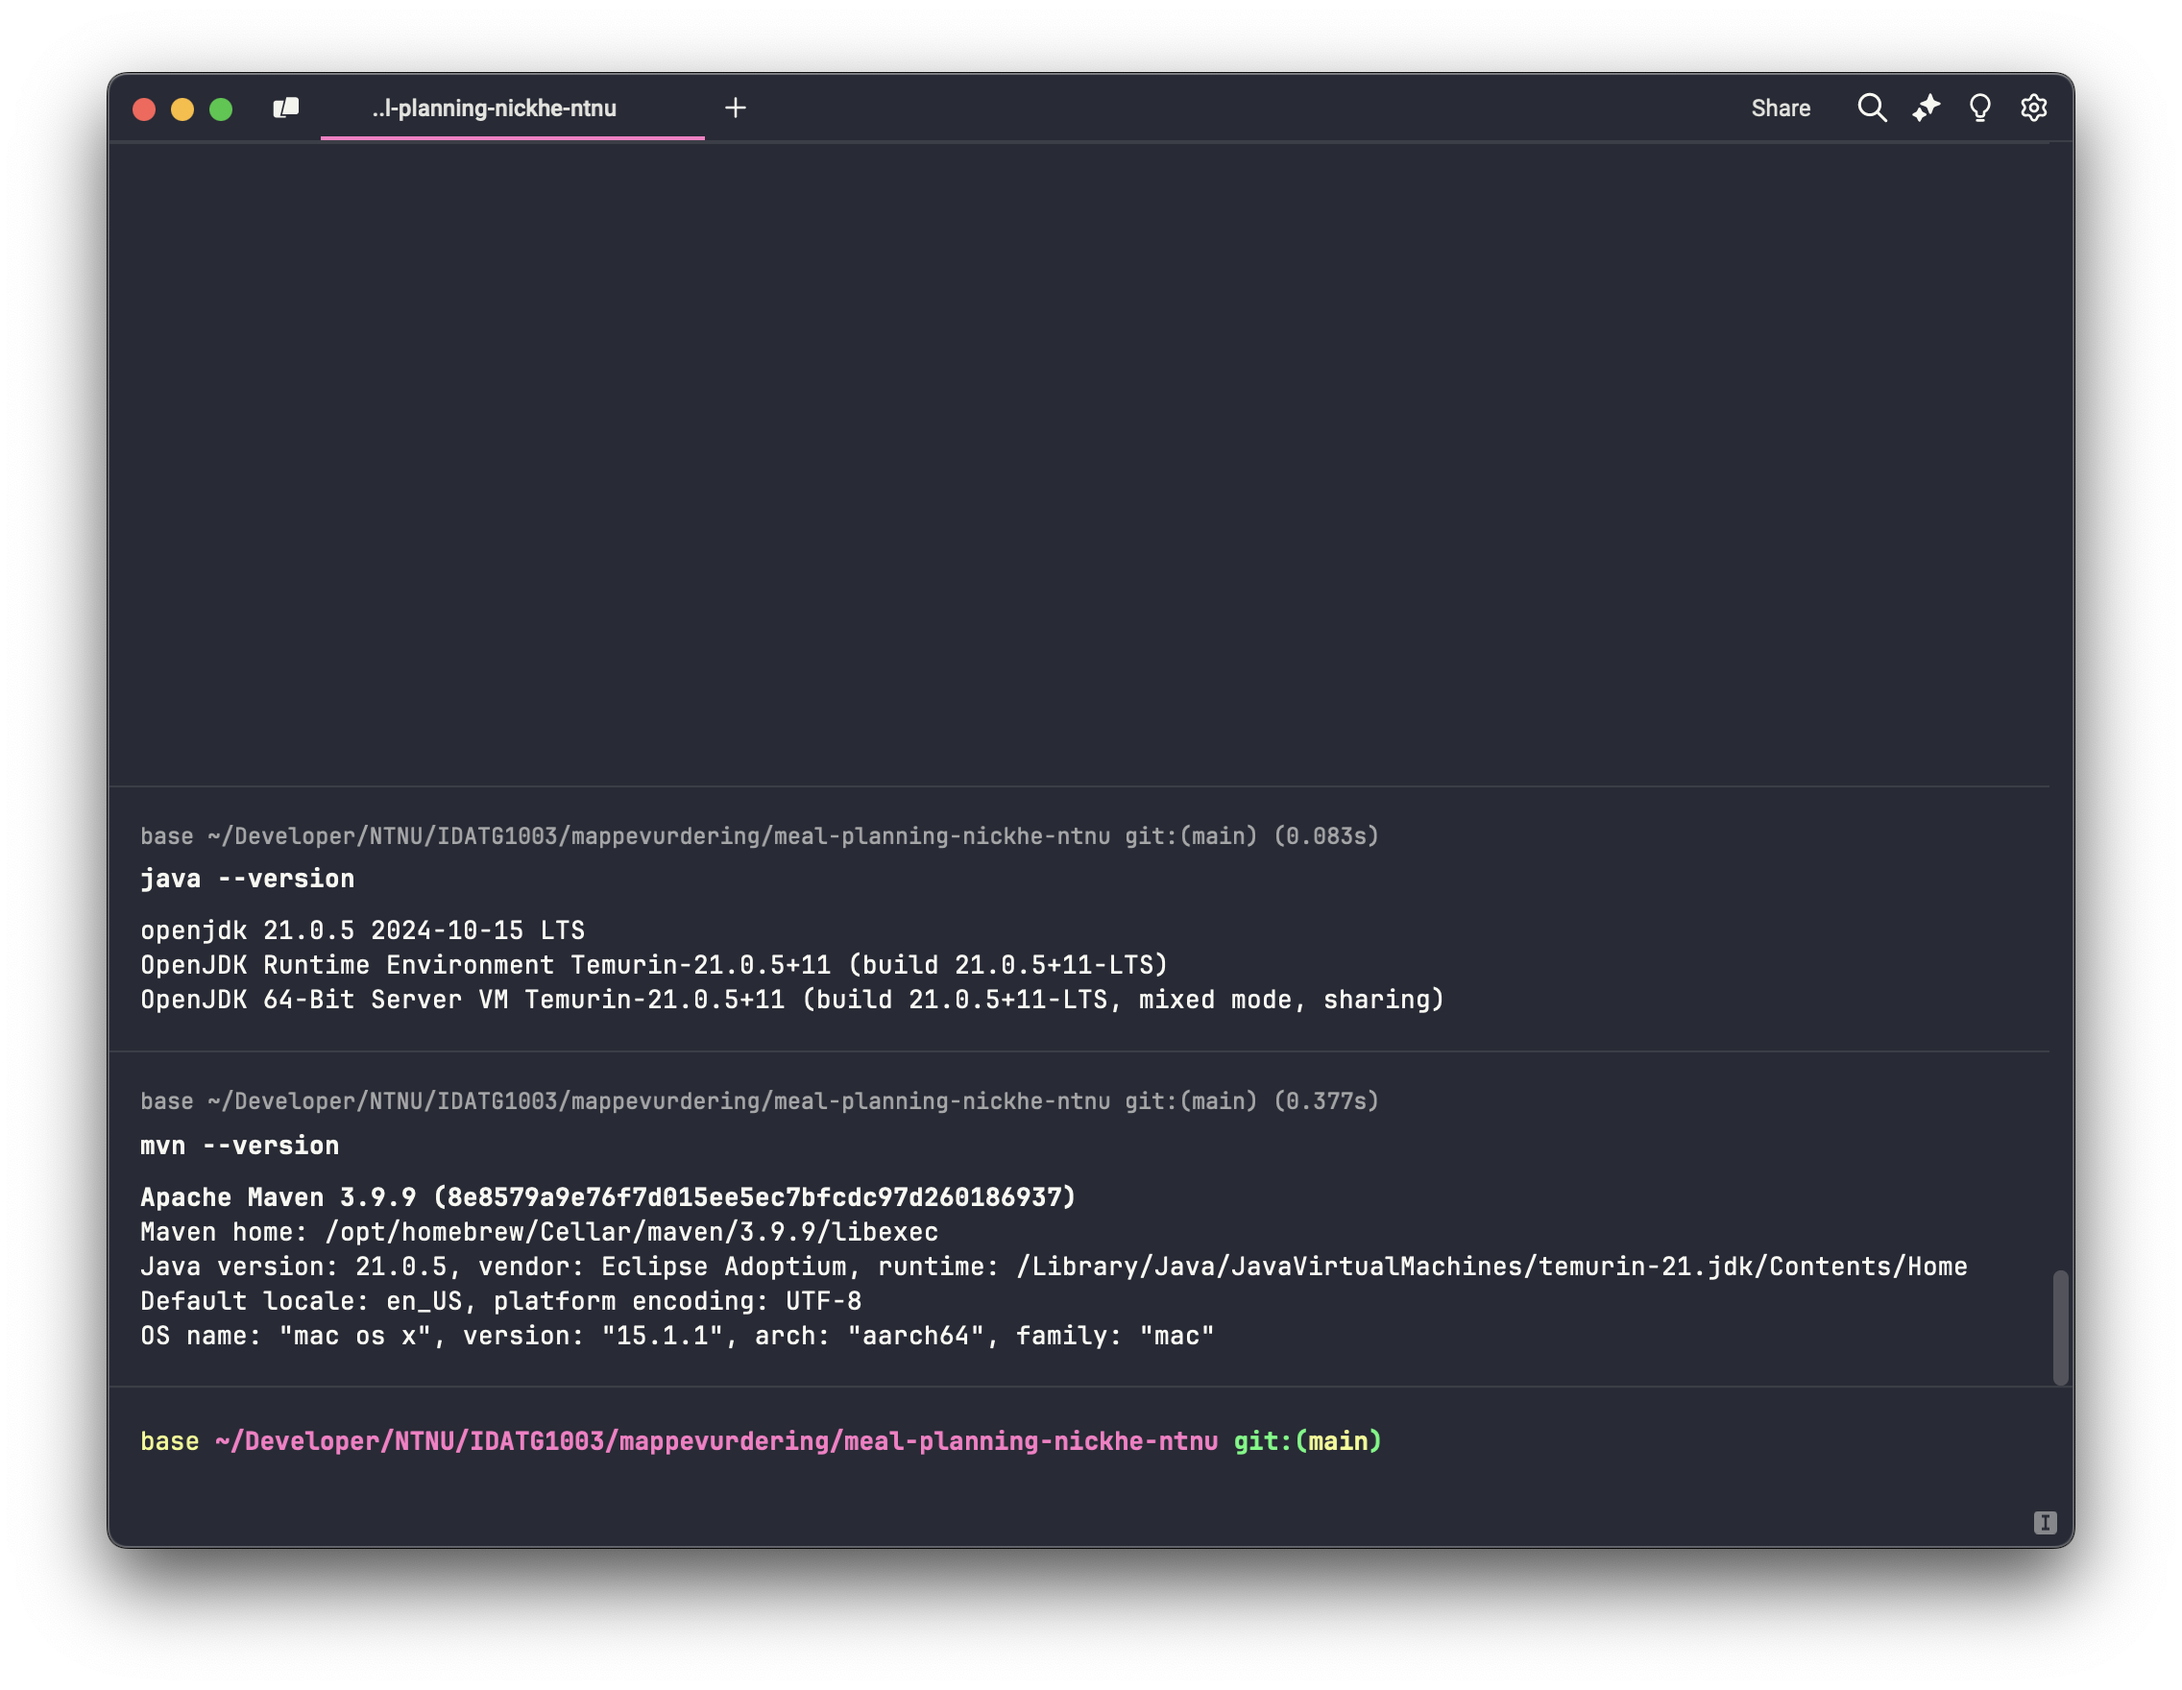
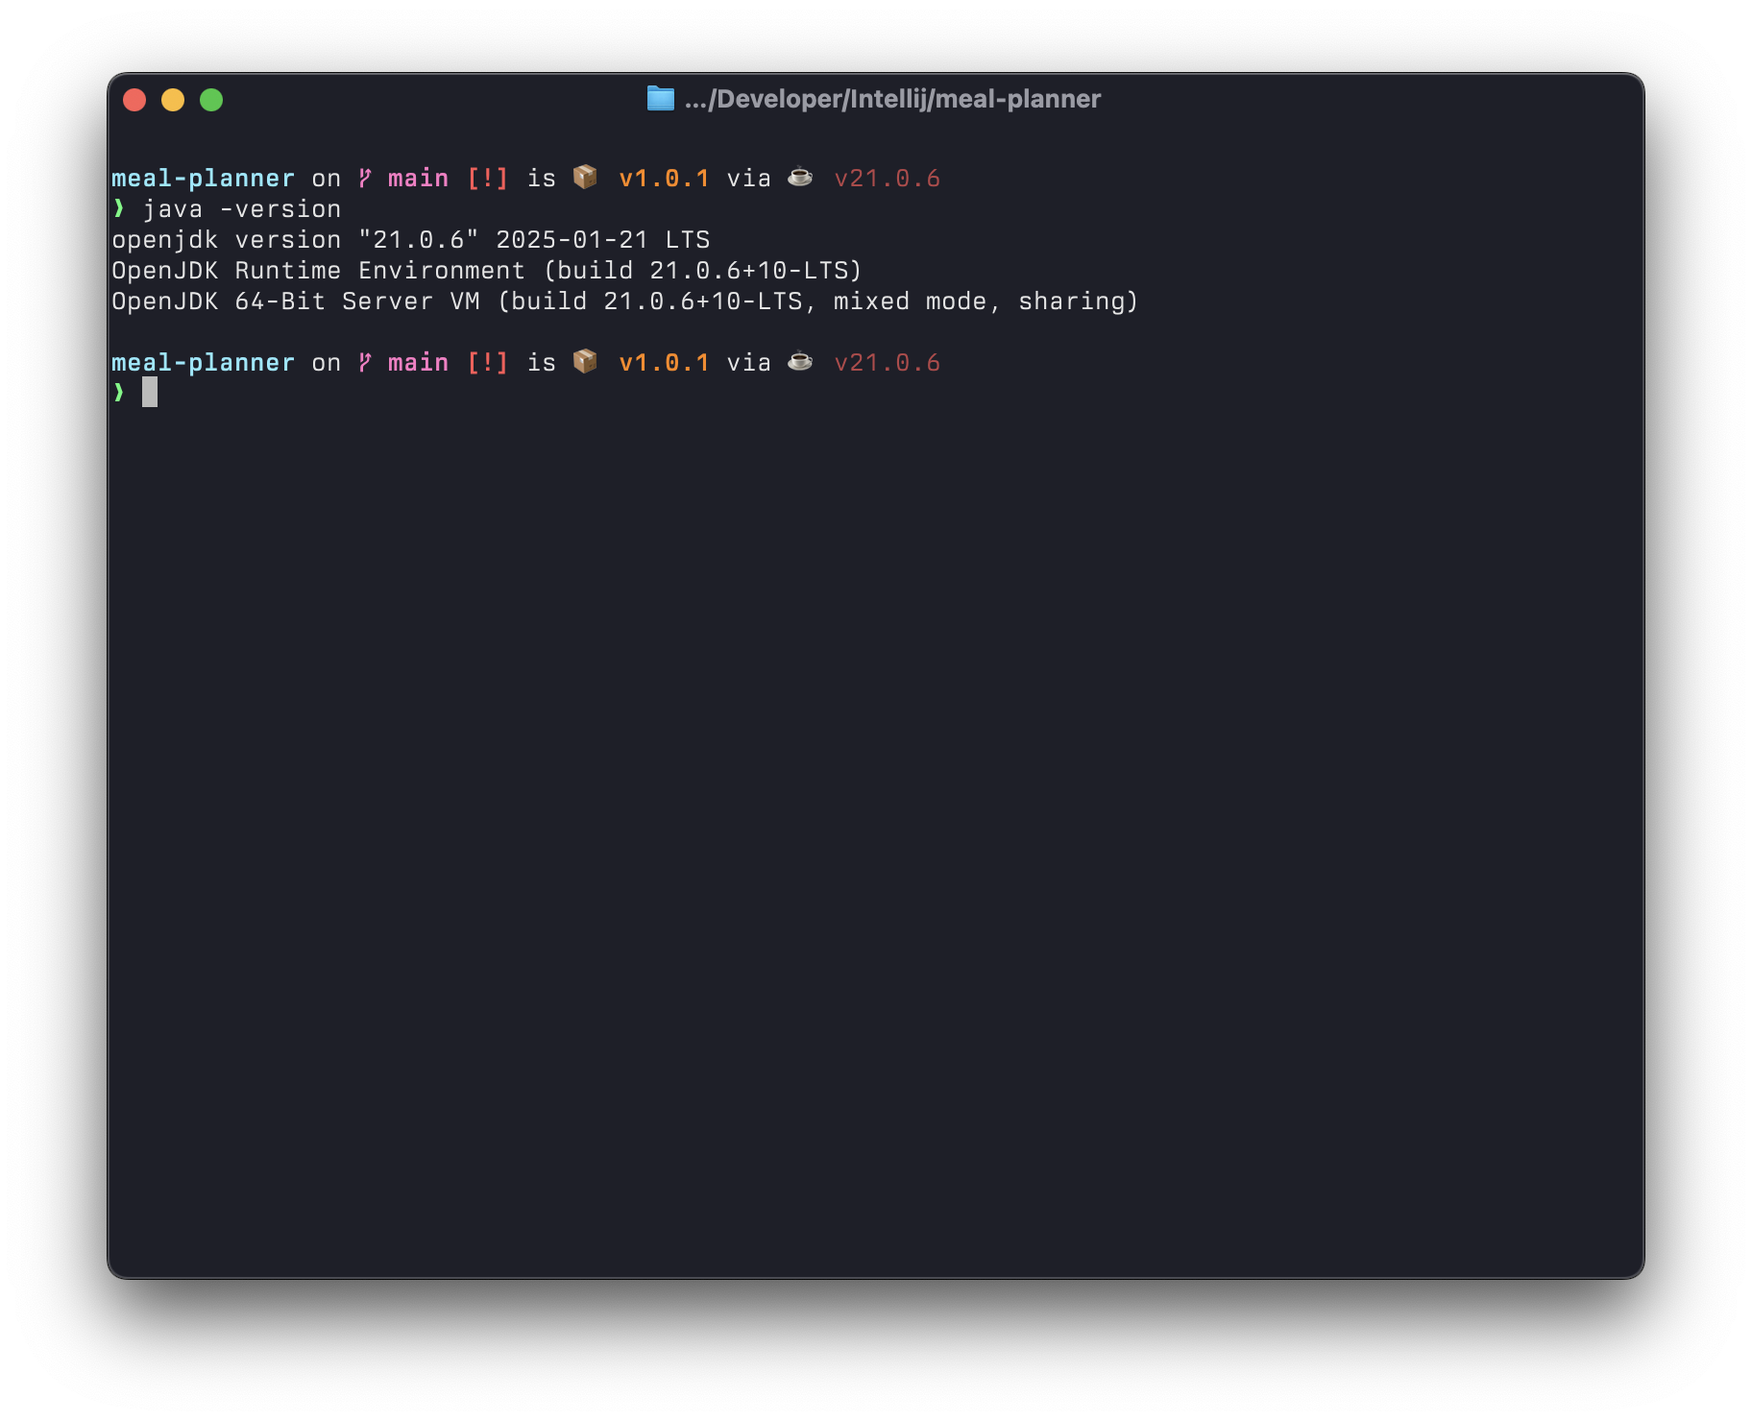
Replaced outdated GIFs in README and updated assets for better clarity and consistency.

diff --git a/README.md b/README.md
@@ -93,7 +93,7 @@ cd <project-root>
 
 ## How to run the tests
 
-![](unitTest.gif)
+![](test.gif)
 
 When using `mvn install` Maven already automatically ran all the test files before building from source.
 However, if one wishes to only run the test files,
